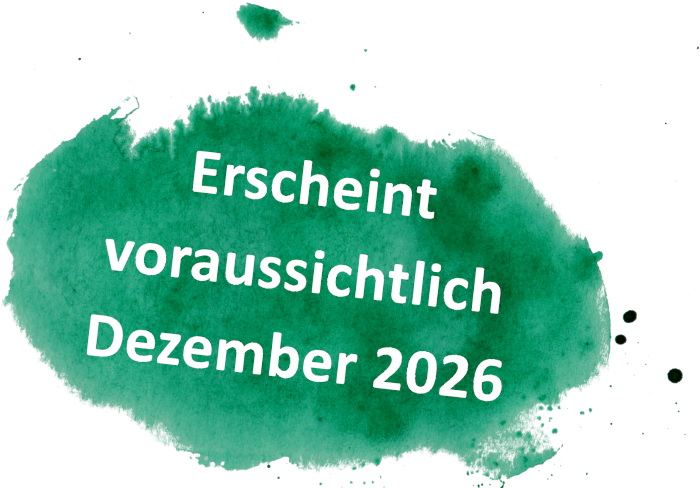
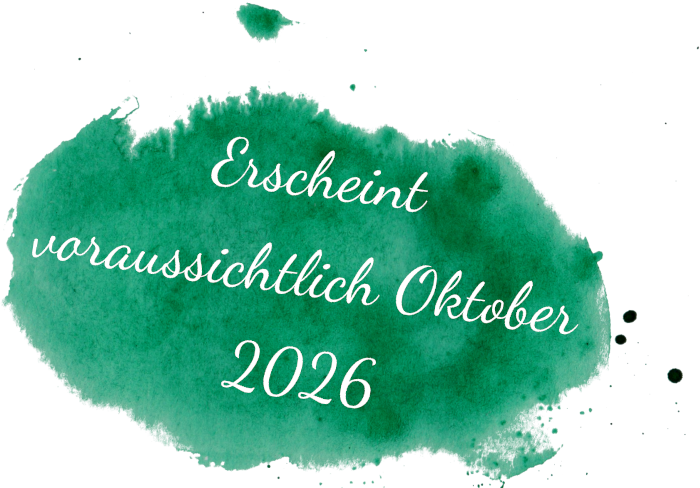
small update on index.html

Changed region(s): [[0.03, 0.4918, 0.84, 0.6762], [0.12, 0.6455, 0.72, 0.8607], [0.27, 0.2766, 0.63, 0.4611]]

diff --git a/index.html b/index.html
@@ -283,7 +283,7 @@
                         </li>
                         <li class="feature-item">
                             <img src="images/kristall.png" alt="Kristall" class="feature-icon">
-                            <span>Enthält ein Poster, sowie Bastel- und Spielmaterial</span>
+                            <span>Enthält Bastel- und Spielmaterial</span>
                         </li>
                     </ul>
                 </div>